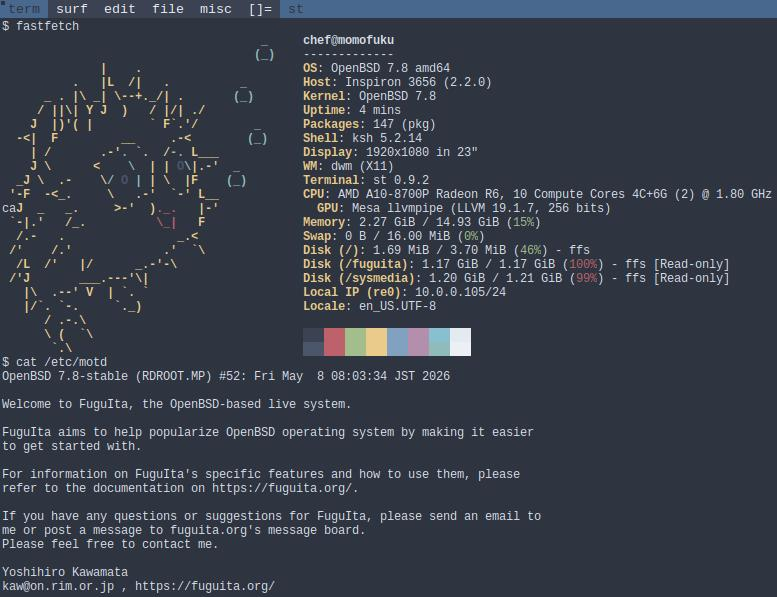
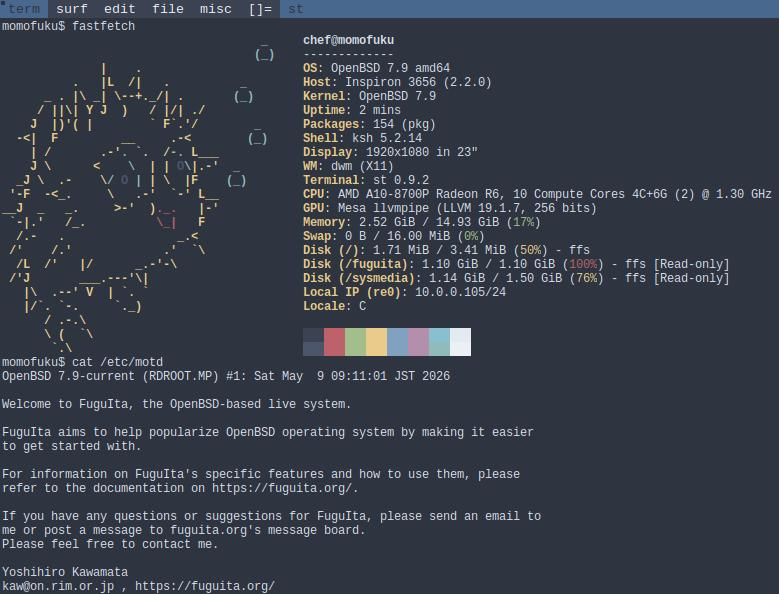
adds and tweaks

diff --git a/README.md b/README.md
@@ -1,4 +1,4 @@
-# OS: OpenBSD 7.8-stable
+# OS: OpenBSD 7.9-current
 
 https://fuguita.org/
 
